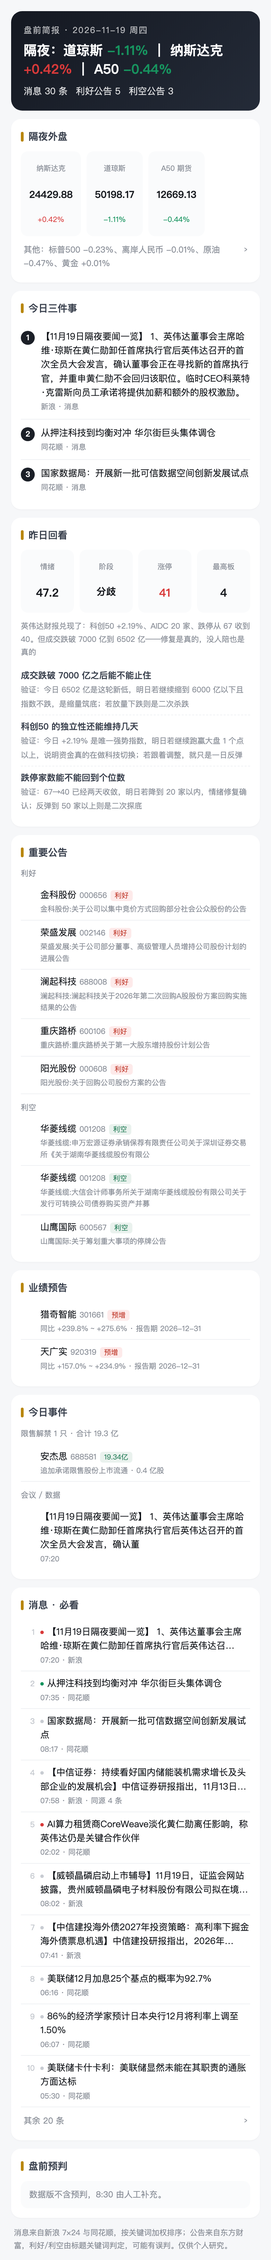
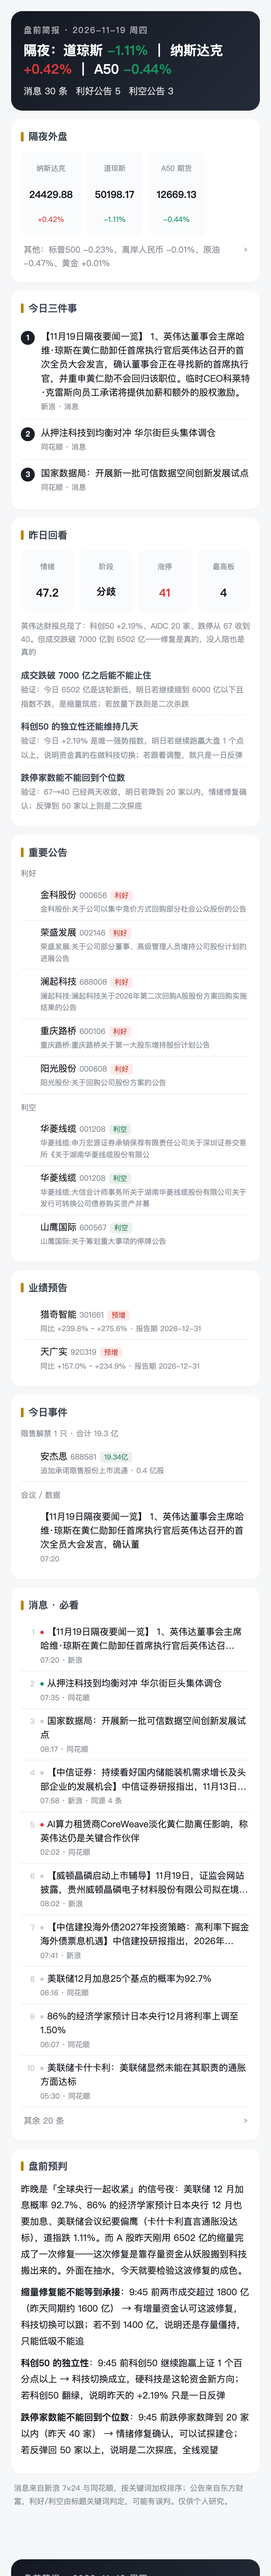
report: 2026-11-18

Changed region(s): [[0.0308, 0.0, 0.9538, 1.0], [0.5538, 0.5625, 0.6154, 0.5938], [0.7077, 0.5625, 0.7385, 0.5938]]

diff --git a/pre/2026-11-19/2026-11-19-盘前.html b/pre/2026-11-19/2026-11-19-盘前.html
@@ -61,4 +61,4 @@ padding:9px 16px;font-size:12.5px;max-width:560px;margin:0 auto}
 1、英伟达董事会主席哈维·琼斯在黄仁勋卸任首席执行官后英伟达召开的首次全员大会发言，确认董事会正在寻找新的首席执行官，并重申黄仁勋不会回归该职位。临时CEO科莱特·克雷斯向员工承诺将提供加薪和额外的股权激励。
 </div><div class="s">新浪 · 消息</div></div></div><div class="t3"><div class="n">2</div><div><div class="t">从押注科技到均衡对冲 华尔街巨头集体调仓</div><div class="s">同花顺 · 消息</div></div></div><div class="t3"><div class="n">3</div><div><div class="t">国家数据局：开展新一批可信数据空间创新发展试点</div><div class="s">同花顺 · 消息</div></div></div></div><div class="card"><h2>昨日回看</h2><div class="kv"><div><div class="n">情绪</div><div class="v">47.2</div></div><div><div class="n">阶段</div><div class="v" style="font-size:14px">分歧</div></div><div><div class="n">涨停</div><div class="v up">41</div></div><div><div class="n">最高板</div><div class="v">4</div></div></div><div class="note" style="margin-bottom:8px">英伟达财报兑现了：科创50 +2.19%、AIDC 20 家、跌停从 67 收到 40。但成交跌破 7000 亿到 6502 亿——修复是真的，没人陪也是真的</div><div class="watch"><b>成交跌破 7000 亿之后能不能止住</b><br><span class="note">验证：今日 6502 亿是这轮新低，明日若继续缩到 6000 亿以下且指数不跌，是缩量筑底；若放量下跌则是二次杀跌</span></div><div class="watch"><b>科创50 的独立性还能维持几天</b><br><span class="note">验证：今日 +2.19% 是唯一强势指数，明日若继续跑赢大盘 1 个点以上，说明资金真的在做科技切换；若跟着调整，就只是一日反弹</span></div><div class="watch"><b>跌停家数能不能回到个位数</b><br><span class="note">验证：67→40 已经两天收敛，明日若降到 20 家以内，情绪修复确认；反弹到 50 家以上则是二次探底</span></div></div><div class="card"><h2>重要公告</h2><div class="note" style="margin-bottom:4px">利好</div><div class="item"><div class="no"></div><div class="b"><div class="t">金科股份 <span class="mut" style="font-size:11px">000656</span><span class="tag tag-good">利好</span></div><div class="m">金科股份:关于公司以集中竞价方式回购部分社会公众股份的公告</div></div></div><div class="item"><div class="no"></div><div class="b"><div class="t">荣盛发展 <span class="mut" style="font-size:11px">002146</span><span class="tag tag-good">利好</span></div><div class="m">荣盛发展:关于公司部分董事、高级管理人员增持公司股份计划的进展公告</div></div></div><div class="item"><div class="no"></div><div class="b"><div class="t">澜起科技 <span class="mut" style="font-size:11px">688008</span><span class="tag tag-good">利好</span></div><div class="m">澜起科技:澜起科技关于2026年第二次回购A股股份方案回购实施结果的公告</div></div></div><div class="item"><div class="no"></div><div class="b"><div class="t">重庆路桥 <span class="mut" style="font-size:11px">600106</span><span class="tag tag-good">利好</span></div><div class="m">重庆路桥:重庆路桥关于第一大股东增持股份计划公告</div></div></div><div class="item"><div class="no"></div><div class="b"><div class="t">阳光股份 <span class="mut" style="font-size:11px">000608</span><span class="tag tag-good">利好</span></div><div class="m">阳光股份:关于回购公司股份方案的公告</div></div></div><div class="note" style="margin:10px 0 4px">利空</div><div class="item"><div class="no"></div><div class="b"><div class="t">华菱线缆 <span class="mut" style="font-size:11px">001208</span><span class="tag tag-bad">利空</span></div><div class="m">华菱线缆:申万宏源证券承销保荐有限责任公司关于深圳证券交易所《关于湖南华菱线缆股份有限公</div></div></div><div class="item"><div class="no"></div><div class="b"><div class="t">华菱线缆 <span class="mut" style="font-size:11px">001208</span><span class="tag tag-bad">利空</span></div><div class="m">华菱线缆:大信会计师事务所关于湖南华菱线缆股份有限公司关于发行可转换公司债券购买资产并募</div></div></div><div class="item"><div class="no"></div><div class="b"><div class="t">山鹰国际 <span class="mut" style="font-size:11px">600567</span><span class="tag tag-bad">利空</span></div><div class="m">山鹰国际:关于筹划重大事项的停牌公告</div></div></div></div><div class="card"><h2>业绩预告</h2><div class="item"><div class="no"></div><div class="b"><div class="t">猎奇智能 <span class="mut" style="font-size:11px">301661</span><span class="tag tag-good">预增</span></div><div class="m">同比 +239.8% ~ +275.6% · 报告期 2026-12-31</div></div></div><div class="item"><div class="no"></div><div class="b"><div class="t">天广实 <span class="mut" style="font-size:11px">920319</span><span class="tag tag-good">预增</span></div><div class="m">同比 +157.0% ~ +234.9% · 报告期 2026-12-31</div></div></div></div><div class="card"><h2>今日事件</h2><div class="note" style="margin-bottom:6px">限售解禁 1 只 · 合计 19.3 亿</div><div class="item"><div class="no"></div><div class="b"><div class="t">安杰思 <span class="mut" style="font-size:11px">688581</span><span class="tag tag-bad">19.34亿</span></div><div class="m">追加承诺限售股份上市流通 · 0.4 亿股</div></div></div><div class="note" style="margin:10px 0 4px">会议 / 数据</div><div class="item"><div class="no"></div><div class="b"><div class="t">【11月19日隔夜要闻一览】
 1、英伟达董事会主席哈维·琼斯在黄仁勋卸任首席执行官后英伟达召开的首次全员大会发言，确认董</div><div class="m">07:20</div></div></div></div><div class="card"><h2>消息 · 必看</h2><div class="item"><div class="no">1</div><div class="b"><div class="t"><span class="dot g"></span>【11月19日隔夜要闻一览】
-1、英伟达董事会主席哈维·琼斯在黄仁勋卸任首席执行官后英伟达召…</div><div class="m">07:20 · 新浪</div></div></div><div class="item"><div class="no">2</div><div class="b"><div class="t"><span class="dot b2"></span>从押注科技到均衡对冲 华尔街巨头集体调仓</div><div class="m">07:35 · 同花顺</div></div></div><div class="item"><div class="no">3</div><div class="b"><div class="t"><span class="dot n"></span>国家数据局：开展新一批可信数据空间创新发展试点</div><div class="m">08:17 · 同花顺</div></div></div><div class="item"><div class="no">4</div><div class="b"><div class="t"><span class="dot n"></span>【中信证券：持续看好国内储能装机需求增长及头部企业的发展机会】中信证券研报指出，11月13日…</div><div class="m">07:58 · 新浪 · 同源 4 条</div></div></div><div class="item"><div class="no">5</div><div class="b"><div class="t"><span class="dot g"></span>AI算力租赁商CoreWeave淡化黄仁勋离任影响，称英伟达仍是关键合作伙伴</div><div class="m">02:02 · 同花顺</div></div></div><div class="item"><div class="no">6</div><div class="b"><div class="t"><span class="dot n"></span>【威顿晶磷启动上市辅导】11月19日，证监会网站披露，贵州威顿晶磷电子材料股份有限公司拟在境…</div><div class="m">08:02 · 新浪</div></div></div><div class="item"><div class="no">7</div><div class="b"><div class="t"><span class="dot n"></span>【中信建投海外债2027年投资策略：高利率下掘金海外债票息机遇】中信建投研报指出，2026年…</div><div class="m">07:41 · 新浪</div></div></div><div class="item"><div class="no">8</div><div class="b"><div class="t"><span class="dot n"></span>美联储12月加息25个基点的概率为92.7%</div><div class="m">06:16 · 同花顺</div></div></div><div class="item"><div class="no">9</div><div class="b"><div class="t"><span class="dot n"></span>86%的经济学家预计日本央行12月将利率上调至1.50%</div><div class="m">06:07 · 同花顺</div></div></div><div class="item"><div class="no">10</div><div class="b"><div class="t"><span class="dot n"></span>美联储卡什卡利：美联储显然未能在其职责的通胀方面达标</div><div class="m">05:30 · 同花顺</div></div></div><details class="more"><summary><span>其余 20 条</span><span class="arw">›</span></summary><div class="item"><div class="no">11</div><div class="b"><div class="t"><span class="dot n"></span>美联储会议纪要公布后，美元指数触及日内高点</div><div class="m">03:12 · 同花顺</div></div></div><div class="item"><div class="no">12</div><div class="b"><div class="t"><span class="dot n"></span>美联储会议纪要公布后，美国10年期国债收益率收窄跌幅，最新下跌3.67个基点</div><div class="m">03:08 · 同花顺 · 同源 2 条</div></div></div><div class="item"><div class="no">13</div><div class="b"><div class="t"><span class="dot n"></span>美联储会议纪要：一些官员称12月加息超过25个基点或是合理的</div><div class="m">03:02 · 同花顺</div></div></div><div class="item"><div class="no">14</div><div class="b"><div class="t"><span class="dot n"></span>美联储巴尔讲话后，美国国债收益率收窄跌幅</div><div class="m">02:49 · 同花顺</div></div></div><div class="item"><div class="no">15</div><div class="b"><div class="t"><span class="dot n"></span>美联储理事巴尔称进一步加息可能是合适之举</div><div class="m">02:37 · 同花顺</div></div></div><div class="item"><div class="no">16</div><div class="b"><div class="t"><span class="dot g"></span>【Salesforce将企业数据管理能力接入微软Copilot、Foundry】当地时间11…</div><div class="m">08:19 · 新浪</div></div></div><div class="item"><div class="no">17</div><div class="b"><div class="t"><span class="dot g"></span>【国家数据局组织开展第二批可信数据空间创新发展试点工作】国家数据局综合司发布关于组织开展第二…</div><div class="m">07:58 · 新浪</div></div></div><div class="item"><div class="no">18</div><div class="b"><div class="t"><span class="dot g"></span>【算力需求驱动电子树脂高阶化升级 稳定交付等能力成比拼关键】电子树脂是AI服务器PCB（印制…</div><div class="m">07:44 · 新浪</div></div></div><div class="item"><div class="no">19</div><div class="b"><div class="t"><span class="dot g"></span>【铜铝价格回落 家电业盈利修复添动能】11月以来，铜、铝等大宗商品价格高位回调，持续承压的家…</div><div class="m">07:30 · 新浪 · 同源 2 条</div></div></div><div class="item"><div class="no">20</div><div class="b"><div class="t"><span class="dot g"></span>科技厂商加码AI眼镜 产品研发路线持续分化</div><div class="m">06:44 · 同花顺</div></div></div><div class="item"><div class="no">21</div><div class="b"><div class="t"><span class="dot n"></span>马斯克：特斯拉将在未来两个月内推出 Optimus 人形机器人演示。</div><div class="m">07:55 · 新浪 · 同源 4 条</div></div></div><div class="item"><div class="no">22</div><div class="b"><div class="t"><span class="dot n"></span>美股收评：纳指收涨0.42% 芯片股表现分化</div><div class="m">05:01 · 同花顺</div></div></div><div class="item"><div class="no">23</div><div class="b"><div class="t"><span class="dot g"></span>【镇江市市长张克会见欧洲先进产业与投资合作访华团】据镇江发布，11月18日，市长张克会见来镇…</div><div class="m">07:56 · 新浪</div></div></div><div class="item"><div class="no">24</div><div class="b"><div class="t"><span class="dot g"></span>日本9月核心机械订单同比 13.4%，预期 13.5%，前值 18.6%。日本9月核心机械订…</div><div class="m">07:50 · 新浪</div></div></div><div class="item"><div class="no">25</div><div class="b"><div class="t"><span class="dot g"></span>【委内瑞拉同美国签署协议恢复军事技术合作】委内瑞拉代总统德尔西·罗德里格斯18日表示，委内瑞…</div><div class="m">07:39 · 新浪</div></div></div><div class="item"><div class="no">26</div><div class="b"><div class="t"><span class="dot g"></span>现货黄金突破3740美元/盎司，日内涨0.42%。</div><div class="m">07:24 · 新浪</div></div></div><div class="item"><div class="no">27</div><div class="b"><div class="t"><span class="dot g"></span>纽约期金突破3740美元/盎司，日内跌0.05%。</div><div class="m">07:23 · 新浪</div></div></div><div class="item"><div class="no">28</div><div class="b"><div class="t"><span class="dot g"></span>马达加斯加临时国家元首：愿与中方共同推动务实合作</div><div class="m">05:15 · 同花顺</div></div></div><div class="item"><div class="no">29</div><div class="b"><div class="t"><span class="dot g"></span>Palo Alto Networks盘后延续涨势，最新上涨5%</div><div class="m">05:13 · 同花顺 · 同源 2 条</div></div></div><div class="item"><div class="no">30</div><div class="b"><div class="t"><span class="dot g"></span>美国20年期国债中标收益率为5.459%</div><div class="m">02:03 · 同花顺</div></div></div></details></div><div class="card"><h2>盘前预判</h2><div class="empty">数据版不含预判，8:30 由人工补充。</div></div><div class="note" style="padding:0 4px">消息来自新浪 7×24 与同花顺，按关键词加权排序；公告来自东方财富，利好/利空由标题关键词判定，可能有误判。仅供个人研究。</div></div></body></html>
+1、英伟达董事会主席哈维·琼斯在黄仁勋卸任首席执行官后英伟达召…</div><div class="m">07:20 · 新浪</div></div></div><div class="item"><div class="no">2</div><div class="b"><div class="t"><span class="dot b2"></span>从押注科技到均衡对冲 华尔街巨头集体调仓</div><div class="m">07:35 · 同花顺</div></div></div><div class="item"><div class="no">3</div><div class="b"><div class="t"><span class="dot n"></span>国家数据局：开展新一批可信数据空间创新发展试点</div><div class="m">08:17 · 同花顺</div></div></div><div class="item"><div class="no">4</div><div class="b"><div class="t"><span class="dot n"></span>【中信证券：持续看好国内储能装机需求增长及头部企业的发展机会】中信证券研报指出，11月13日…</div><div class="m">07:58 · 新浪 · 同源 4 条</div></div></div><div class="item"><div class="no">5</div><div class="b"><div class="t"><span class="dot g"></span>AI算力租赁商CoreWeave淡化黄仁勋离任影响，称英伟达仍是关键合作伙伴</div><div class="m">02:02 · 同花顺</div></div></div><div class="item"><div class="no">6</div><div class="b"><div class="t"><span class="dot n"></span>【威顿晶磷启动上市辅导】11月19日，证监会网站披露，贵州威顿晶磷电子材料股份有限公司拟在境…</div><div class="m">08:02 · 新浪</div></div></div><div class="item"><div class="no">7</div><div class="b"><div class="t"><span class="dot n"></span>【中信建投海外债2027年投资策略：高利率下掘金海外债票息机遇】中信建投研报指出，2026年…</div><div class="m">07:41 · 新浪</div></div></div><div class="item"><div class="no">8</div><div class="b"><div class="t"><span class="dot n"></span>美联储12月加息25个基点的概率为92.7%</div><div class="m">06:16 · 同花顺</div></div></div><div class="item"><div class="no">9</div><div class="b"><div class="t"><span class="dot n"></span>86%的经济学家预计日本央行12月将利率上调至1.50%</div><div class="m">06:07 · 同花顺</div></div></div><div class="item"><div class="no">10</div><div class="b"><div class="t"><span class="dot n"></span>美联储卡什卡利：美联储显然未能在其职责的通胀方面达标</div><div class="m">05:30 · 同花顺</div></div></div><details class="more"><summary><span>其余 20 条</span><span class="arw">›</span></summary><div class="item"><div class="no">11</div><div class="b"><div class="t"><span class="dot n"></span>美联储会议纪要公布后，美元指数触及日内高点</div><div class="m">03:12 · 同花顺</div></div></div><div class="item"><div class="no">12</div><div class="b"><div class="t"><span class="dot n"></span>美联储会议纪要公布后，美国10年期国债收益率收窄跌幅，最新下跌3.67个基点</div><div class="m">03:08 · 同花顺 · 同源 2 条</div></div></div><div class="item"><div class="no">13</div><div class="b"><div class="t"><span class="dot n"></span>美联储会议纪要：一些官员称12月加息超过25个基点或是合理的</div><div class="m">03:02 · 同花顺</div></div></div><div class="item"><div class="no">14</div><div class="b"><div class="t"><span class="dot n"></span>美联储巴尔讲话后，美国国债收益率收窄跌幅</div><div class="m">02:49 · 同花顺</div></div></div><div class="item"><div class="no">15</div><div class="b"><div class="t"><span class="dot n"></span>美联储理事巴尔称进一步加息可能是合适之举</div><div class="m">02:37 · 同花顺</div></div></div><div class="item"><div class="no">16</div><div class="b"><div class="t"><span class="dot g"></span>【Salesforce将企业数据管理能力接入微软Copilot、Foundry】当地时间11…</div><div class="m">08:19 · 新浪</div></div></div><div class="item"><div class="no">17</div><div class="b"><div class="t"><span class="dot g"></span>【国家数据局组织开展第二批可信数据空间创新发展试点工作】国家数据局综合司发布关于组织开展第二…</div><div class="m">07:58 · 新浪</div></div></div><div class="item"><div class="no">18</div><div class="b"><div class="t"><span class="dot g"></span>【算力需求驱动电子树脂高阶化升级 稳定交付等能力成比拼关键】电子树脂是AI服务器PCB（印制…</div><div class="m">07:44 · 新浪</div></div></div><div class="item"><div class="no">19</div><div class="b"><div class="t"><span class="dot g"></span>【铜铝价格回落 家电业盈利修复添动能】11月以来，铜、铝等大宗商品价格高位回调，持续承压的家…</div><div class="m">07:30 · 新浪 · 同源 2 条</div></div></div><div class="item"><div class="no">20</div><div class="b"><div class="t"><span class="dot g"></span>科技厂商加码AI眼镜 产品研发路线持续分化</div><div class="m">06:44 · 同花顺</div></div></div><div class="item"><div class="no">21</div><div class="b"><div class="t"><span class="dot n"></span>马斯克：特斯拉将在未来两个月内推出 Optimus 人形机器人演示。</div><div class="m">07:55 · 新浪 · 同源 4 条</div></div></div><div class="item"><div class="no">22</div><div class="b"><div class="t"><span class="dot n"></span>美股收评：纳指收涨0.42% 芯片股表现分化</div><div class="m">05:01 · 同花顺</div></div></div><div class="item"><div class="no">23</div><div class="b"><div class="t"><span class="dot g"></span>【镇江市市长张克会见欧洲先进产业与投资合作访华团】据镇江发布，11月18日，市长张克会见来镇…</div><div class="m">07:56 · 新浪</div></div></div><div class="item"><div class="no">24</div><div class="b"><div class="t"><span class="dot g"></span>日本9月核心机械订单同比 13.4%，预期 13.5%，前值 18.6%。日本9月核心机械订…</div><div class="m">07:50 · 新浪</div></div></div><div class="item"><div class="no">25</div><div class="b"><div class="t"><span class="dot g"></span>【委内瑞拉同美国签署协议恢复军事技术合作】委内瑞拉代总统德尔西·罗德里格斯18日表示，委内瑞…</div><div class="m">07:39 · 新浪</div></div></div><div class="item"><div class="no">26</div><div class="b"><div class="t"><span class="dot g"></span>现货黄金突破3740美元/盎司，日内涨0.42%。</div><div class="m">07:24 · 新浪</div></div></div><div class="item"><div class="no">27</div><div class="b"><div class="t"><span class="dot g"></span>纽约期金突破3740美元/盎司，日内跌0.05%。</div><div class="m">07:23 · 新浪</div></div></div><div class="item"><div class="no">28</div><div class="b"><div class="t"><span class="dot g"></span>马达加斯加临时国家元首：愿与中方共同推动务实合作</div><div class="m">05:15 · 同花顺</div></div></div><div class="item"><div class="no">29</div><div class="b"><div class="t"><span class="dot g"></span>Palo Alto Networks盘后延续涨势，最新上涨5%</div><div class="m">05:13 · 同花顺 · 同源 2 条</div></div></div><div class="item"><div class="no">30</div><div class="b"><div class="t"><span class="dot g"></span>美国20年期国债中标收益率为5.459%</div><div class="m">02:03 · 同花顺</div></div></div></details></div><div class="card"><h2>盘前预判</h2><div class="jd"><p>昨晚是「全球央行一起收紧」的信号夜：美联储 12 月加息概率 92.7%、86% 的经济学家预计日本央行 12 月也要加息、美联储会议纪要偏鹰（卡什卡利直言通胀没达标），道指跌 1.11%。而 A 股昨天刚用 6502 亿的缩量完成了一次修复——这次修复是靠存量资金从妖股搬到科技搬出来的。外面在抽水，今天就要检验这波修复的成色。</p><p><b>缩量修复能不能等到承接</b>：9:45 前两市成交超过 1800 亿（昨天同期约 1600 亿） → 有增量资金认可这波修复，科技切换可以跟；若不到 1400 亿，说明还是存量僵持，只能低吸不能追</p><p><b>科创50 的独立性</b>：9:45 前科创50 继续跑赢上证 1 个百分点以上 → 科技切换成立，硬科技是这轮资金新方向；若科创50 翻绿，说明昨天的 +2.19% 只是一日反弹</p><p><b>跌停家数能不能回到个位数</b>：9:45 前跌停家数降到 20 家以内（昨天 40 家） → 情绪修复确认，可以试探建仓；若反弹回 50 家以上，说明是二次探底，全线观望</p></div></div><div class="note" style="padding:0 4px">消息来自新浪 7×24 与同花顺，按关键词加权排序；公告来自东方财富，利好/利空由标题关键词判定，可能有误判。仅供个人研究。</div></div></body></html>

diff --git a/pre/index.html b/pre/index.html
@@ -47,6 +47,6 @@ padding-bottom:env(safe-area-inset-bottom)}
 .tabbar a.on::after{content:"";display:block;width:18px;height:2.5px;border-radius:2px;background:var(--gold);margin:5px auto 0}
 </style><link rel="manifest" href="/a-share-review/manifest.webmanifest"><meta name="theme-color" content="#1b1f27"><meta name="apple-mobile-web-app-capable" content="yes"><meta name="apple-mobile-web-app-status-bar-style" content="black-translucent"><meta name="apple-mobile-web-app-title" content="A股复盘"><link rel="apple-touch-icon" href="/a-share-review/icon-192.png"></head><body><div class="wrap">
 <div class="head"><h1>盘前简报</h1><div class="sub">共 14 篇 · 交易日 08:20</div></div>
-<a class="hero" href="2026-11-19/2026-11-19-盘前.html?v=1795047609"><div class="ht">最新盘前 · 2026-11-19</div><div class="hrow"><div><div class="hn">纳指</div><div class="hv up">+0.42%</div></div><div><div class="hn">道指</div><div class="hv down">-1.11%</div></div><div><div class="hn">A50</div><div class="hv down">-0.44%</div></div><div><div class="hn">消息</div><div class="hv">30</div></div></div><div class="hb">点开看完整盘前简报 →</div></a>
-<details class="month" open><summary><span><b>2026-11</b>　14 篇</span><span class="arw">›</span></summary><div class="list"><a class="row" href="2026-11-19/2026-11-19-盘前.html?v=1795047609"><div class="rl"><div class="rd">11-19</div><div class="rw">周四</div></div><div class="rm"><span class="k up">纳指 +0.42%</span><span class="k2">30 条消息</span></div></a><a class="row" href="2026-11-18/2026-11-18-盘前.html?v=1794961810"><div class="rl"><div class="rd">11-18</div><div class="rw">周三</div></div><div class="rm"><span class="k down">纳指 -0.74%</span><span class="k2">30 条消息</span><span class="tag2">预判</span></div></a><a class="row" href="2026-11-17/2026-11-17-盘前.html?v=1794875413"><div class="rl"><div class="rd">11-17</div><div class="rw">周二</div></div><div class="rm"><span class="k down">纳指 -2.49%</span><span class="k2">30 条消息</span><span class="tag2">预判</span></div></a><a class="row" href="2026-11-16/2026-11-16-盘前.html?v=1794789015"><div class="rl"><div class="rd">11-16</div><div class="rw">周一</div></div><div class="rm"><span class="k down">纳指 -0.91%</span><span class="k2">30 条消息</span><span class="tag2">预判</span></div></a><a class="row" href="2026-11-13/2026-11-13-盘前.html?v=1794529811"><div class="rl"><div class="rd">11-13</div><div class="rw">周五</div></div><div class="rm"><span class="k down">纳指 -0.39%</span><span class="k2">30 条消息</span><span class="tag2">预判</span></div></a><a class="row" href="2026-11-12/2026-11-12-盘前.html?v=1794443410"><div class="rl"><div class="rd">11-12</div><div class="rw">周四</div></div><div class="rm"><span class="k up">纳指 +1.60%</span><span class="k2">30 条消息</span><span class="tag2">预判</span></div></a><a class="row" href="2026-11-11/2026-11-11-盘前.html?v=1794357010"><div class="rl"><div class="rd">11-11</div><div class="rw">周三</div></div><div class="rm"><span class="k down">纳指 -0.74%</span><span class="k2">30 条消息</span><span class="tag2">预判</span></div></a><a class="row" href="2026-11-10/2026-11-10-盘前.html?v=1794270612"><div class="rl"><div class="rd">11-10</div><div class="rw">周二</div></div><div class="rm"><span class="k up">纳指 +2.74%</span><span class="k2">30 条消息</span><span class="tag2">预判</span></div></a><a class="row" href="2026-11-09/2026-11-09-盘前.html?v=1794194683"><div class="rl"><div class="rd">11-09</div><div class="rw">周一</div></div><div class="rm"><span class="k up">纳指 +1.09%</span><span class="k2">30 条消息</span><span class="tag2">预判</span></div></a><a class="row" href="2026-11-06/2026-11-06-盘前.html?v=1793928167"><div class="rl"><div class="rd">11-06</div><div class="rw">周五</div></div><div class="rm"><span class="k down">纳指 -5.52%</span><span class="k2">30 条消息</span><span class="tag2">预判</span></div></a><a class="row" href="2026-11-05/2026-11-05-盘前.html?v=1793928167"><div class="rl"><div class="rd">11-05</div><div class="rw">周四</div></div><div class="rm"><span class="k up">纳指 +1.44%</span><span class="k2">18 条消息</span><span class="tag2">预判</span></div></a><a class="row" href="2026-11-04/2026-11-04-盘前.html?v=1793928167"><div class="rl"><div class="rd">11-04</div><div class="rw">周三</div></div><div class="rm"><span class="k up">纳指 +0.83%</span><span class="k2">30 条消息</span><span class="tag2">预判</span></div></a><a class="row" href="2026-11-03/2026-11-03-盘前.html?v=1793928166"><div class="rl"><div class="rd">11-03</div><div class="rw">周二</div></div><div class="rm"><span class="k down">纳指 -1.07%</span><span class="k2">30 条消息</span><span class="tag2">预判</span></div></a><a class="row" href="2026-11-02/2026-11-02-盘前.html?v=1793928166"><div class="rl"><div class="rd">11-02</div><div class="rw">周一</div></div><div class="rm"><span class="k down">纳指 -2.86%</span><span class="k2">30 条消息</span></div></a></div></details>
+<a class="hero" href="2026-11-19/2026-11-19-盘前.html?v=1795048211"><div class="ht">最新盘前 · 2026-11-19</div><div class="hrow"><div><div class="hn">纳指</div><div class="hv up">+0.42%</div></div><div><div class="hn">道指</div><div class="hv down">-1.11%</div></div><div><div class="hn">A50</div><div class="hv down">-0.44%</div></div><div><div class="hn">消息</div><div class="hv">30</div></div></div><div class="hj">昨晚是「全球央行一起收紧」的信号夜：美联储 12 月加息概率 92.7%、86% 的经济学家预计日本央行 12 月也要加</div><div class="hb">点开看完整盘前简报 →</div></a>
+<details class="month" open><summary><span><b>2026-11</b>　14 篇</span><span class="arw">›</span></summary><div class="list"><a class="row" href="2026-11-19/2026-11-19-盘前.html?v=1795048211"><div class="rl"><div class="rd">11-19</div><div class="rw">周四</div></div><div class="rm"><span class="k up">纳指 +0.42%</span><span class="k2">30 条消息</span><span class="tag2">预判</span></div></a><a class="row" href="2026-11-18/2026-11-18-盘前.html?v=1794961810"><div class="rl"><div class="rd">11-18</div><div class="rw">周三</div></div><div class="rm"><span class="k down">纳指 -0.74%</span><span class="k2">30 条消息</span><span class="tag2">预判</span></div></a><a class="row" href="2026-11-17/2026-11-17-盘前.html?v=1794875413"><div class="rl"><div class="rd">11-17</div><div class="rw">周二</div></div><div class="rm"><span class="k down">纳指 -2.49%</span><span class="k2">30 条消息</span><span class="tag2">预判</span></div></a><a class="row" href="2026-11-16/2026-11-16-盘前.html?v=1794789015"><div class="rl"><div class="rd">11-16</div><div class="rw">周一</div></div><div class="rm"><span class="k down">纳指 -0.91%</span><span class="k2">30 条消息</span><span class="tag2">预判</span></div></a><a class="row" href="2026-11-13/2026-11-13-盘前.html?v=1794529811"><div class="rl"><div class="rd">11-13</div><div class="rw">周五</div></div><div class="rm"><span class="k down">纳指 -0.39%</span><span class="k2">30 条消息</span><span class="tag2">预判</span></div></a><a class="row" href="2026-11-12/2026-11-12-盘前.html?v=1794443410"><div class="rl"><div class="rd">11-12</div><div class="rw">周四</div></div><div class="rm"><span class="k up">纳指 +1.60%</span><span class="k2">30 条消息</span><span class="tag2">预判</span></div></a><a class="row" href="2026-11-11/2026-11-11-盘前.html?v=1794357010"><div class="rl"><div class="rd">11-11</div><div class="rw">周三</div></div><div class="rm"><span class="k down">纳指 -0.74%</span><span class="k2">30 条消息</span><span class="tag2">预判</span></div></a><a class="row" href="2026-11-10/2026-11-10-盘前.html?v=1794270612"><div class="rl"><div class="rd">11-10</div><div class="rw">周二</div></div><div class="rm"><span class="k up">纳指 +2.74%</span><span class="k2">30 条消息</span><span class="tag2">预判</span></div></a><a class="row" href="2026-11-09/2026-11-09-盘前.html?v=1794194683"><div class="rl"><div class="rd">11-09</div><div class="rw">周一</div></div><div class="rm"><span class="k up">纳指 +1.09%</span><span class="k2">30 条消息</span><span class="tag2">预判</span></div></a><a class="row" href="2026-11-06/2026-11-06-盘前.html?v=1793928167"><div class="rl"><div class="rd">11-06</div><div class="rw">周五</div></div><div class="rm"><span class="k down">纳指 -5.52%</span><span class="k2">30 条消息</span><span class="tag2">预判</span></div></a><a class="row" href="2026-11-05/2026-11-05-盘前.html?v=1793928167"><div class="rl"><div class="rd">11-05</div><div class="rw">周四</div></div><div class="rm"><span class="k up">纳指 +1.44%</span><span class="k2">18 条消息</span><span class="tag2">预判</span></div></a><a class="row" href="2026-11-04/2026-11-04-盘前.html?v=1793928167"><div class="rl"><div class="rd">11-04</div><div class="rw">周三</div></div><div class="rm"><span class="k up">纳指 +0.83%</span><span class="k2">30 条消息</span><span class="tag2">预判</span></div></a><a class="row" href="2026-11-03/2026-11-03-盘前.html?v=1793928166"><div class="rl"><div class="rd">11-03</div><div class="rw">周二</div></div><div class="rm"><span class="k down">纳指 -1.07%</span><span class="k2">30 条消息</span><span class="tag2">预判</span></div></a><a class="row" href="2026-11-02/2026-11-02-盘前.html?v=1793928166"><div class="rl"><div class="rd">11-02</div><div class="rw">周一</div></div><div class="rm"><span class="k down">纳指 -2.86%</span><span class="k2">30 条消息</span></div></a></div></details>
 </div><div class="tabbar"><a href="../index.html">每日复盘</a><a href="index.html" class="on">盘前简报</a><a href="../earn/index.html">业绩追踪</a></div></body></html>

diff --git a/index.html b/index.html
@@ -212,7 +212,7 @@ padding-bottom:env(safe-area-inset-bottom)}
   </div>
 </a></div></details>
 <div class="foot">数据与判断仅供个人研究，不构成投资建议<br>
-生成于 2026-11-19 08:20</div>
+生成于 2026-11-19 08:30</div>
 <div class="tabbar"><a href="index.html" class="on">每日复盘</a><a href="pre/index.html">盘前简报</a><a href="earn/index.html">业绩追踪</a></div>
 </div>
 <script>

diff --git a/pre/2026-11-19/2026-11-19-盘前.md b/pre/2026-11-19/2026-11-19-盘前.md
@@ -90,4 +90,8 @@
 
 ## 盘前预判
 
-> 8:30 由人工补充（数据版不含预判）。
+昨晚是「全球央行一起收紧」的信号夜：美联储 12 月加息概率 92.7%、86% 的经济学家预计日本央行 12 月也要加息、美联储会议纪要偏鹰（卡什卡利直言通胀没达标），道指跌 1.11%。而 A 股昨天刚用 6502 亿的缩量完成了一次修复——这次修复是靠存量资金从妖股搬到科技搬出来的。外面在抽水，今天就要检验这波修复的成色。
+
+- **缩量修复能不能等到承接**：9:45 前两市成交超过 1800 亿（昨天同期约 1600 亿） → 有增量资金认可这波修复，科技切换可以跟；若不到 1400 亿，说明还是存量僵持，只能低吸不能追
+- **科创50 的独立性**：9:45 前科创50 继续跑赢上证 1 个百分点以上 → 科技切换成立，硬科技是这轮资金新方向；若科创50 翻绿，说明昨天的 +2.19% 只是一日反弹
+- **跌停家数能不能回到个位数**：9:45 前跌停家数降到 20 家以内（昨天 40 家） → 情绪修复确认，可以试探建仓；若反弹回 50 家以上，说明是二次探底，全线观望
